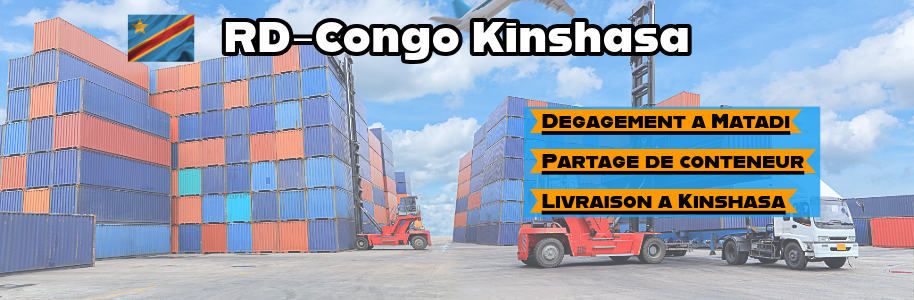
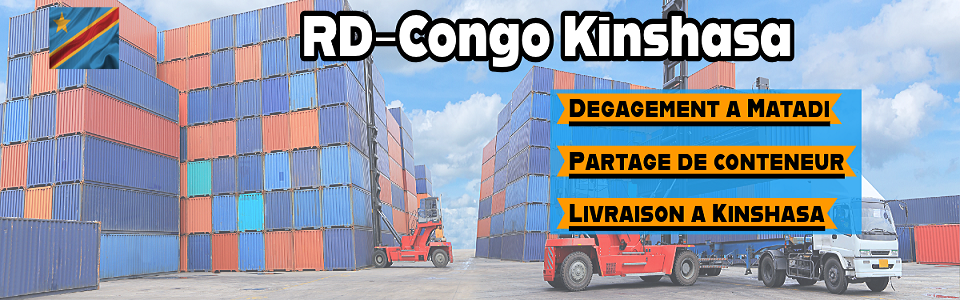
Updated various CSS and JavaScript files with minor changes and image updates

diff --git a/src/components/tanzaniaAgent.js b/src/components/tanzaniaAgent.js
@@ -43,10 +43,12 @@ const TanzainaAgent = () => {
           <img className="nav-icon" src={`${process.env.PUBLIC_URL}/images/localServices/auctionicon.png`} alt='services icon'/>
 
         </a>
-        <a onClick={() => scrollToSection('faq')}>
+
+        <a href='#/help?topic=F%26Q'>
           <img className="nav-icon" src={`${process.env.PUBLIC_URL}/images/localServices/faqicon.png`} alt='services icon'/>
 
         </a>
+     
       
       </div>
 
@@ -116,7 +118,7 @@ const TanzainaAgent = () => {
             <span className="chevrons">
               <img 
                 alt="Decorative chevrons" 
-                src={`${process.env.PUBLIC_URL}/images/localServices/arrows.png`} 
+                src={`${process.env.PUBLIC_URL}/images/localServices/arrowscopy.png`} 
               />
             </span>
           </div>
@@ -210,10 +212,7 @@ const TanzainaAgent = () => {
         </div>
       </div>
 
-      <div id="faq" className="faq">
-        <h1 className="faq-title">Frequently Asked Questions</h1>
-        <FAQComponent />
-      </div>
+    
     </div>
   );
 };

diff --git a/src/components/namibiaAgent.js b/src/components/namibiaAgent.js
@@ -43,7 +43,7 @@ const NamibiaAgent = () => {
           <img className="nav-icon" src={`${process.env.PUBLIC_URL}/images/localServices/auctionicon.png`} alt='services icon'/>
 
         </a>
-        <a onClick={() => scrollToSection('faq')}>
+        <a href='#/help?topic=F%26Q'>
           <img className="nav-icon" src={`${process.env.PUBLIC_URL}/images/localServices/faqicon.png`} alt='services icon'/>
 
         </a>
@@ -117,7 +117,7 @@ const NamibiaAgent = () => {
     
               <img 
                 alt="Decorative chevrons" 
-                src={`${process.env.PUBLIC_URL}/images/localServices/arrows.png`} 
+                src={`${process.env.PUBLIC_URL}/images/localServices/arrowscopy.png`} 
               />
        
           </div>
@@ -181,10 +181,6 @@ const NamibiaAgent = () => {
             </div>
         </div>
 
-      <div id="faq" class="faq">
-        <h1 className="faq-title">Frequently Asked Questions</h1>
-        <FAQComponent />
-      </div>
     </div>
   );
 };

diff --git a/src/components/invoiceForm.js b/src/components/invoiceForm.js
@@ -354,7 +354,7 @@ const ProformaInvoiceForm = () => {
               className="logo-form" 
             />
       
-            <h1>Proforma Invoice Generation</h1>
+            <h2>Proforma Invoice Generation</h2>
 
                {/* Compatibility Message  */}
             <p className="compatibility-message">
@@ -377,7 +377,7 @@ const ProformaInvoiceForm = () => {
             </p>
       
             <div className="form-section">
-              <h2>Your Information</h2>
+              <h3>Your Information</h3>
               <div className="form-group">
                 <div className="half-width">
                   <label htmlFor="fullName">
@@ -480,7 +480,7 @@ const ProformaInvoiceForm = () => {
             </div>
       
             <div className="form-section">
-              <h2>Deposit Details</h2>
+              <h3>Deposit Details</h3>
               <div className="form-group">
                 <div className="half-width">
                   <label htmlFor="depositCurrency">

diff --git a/src/css/namibiaAgent.css b/src/css/namibiaAgent.css
@@ -249,7 +249,6 @@
   background-image: url('../../public/images/localServices/namibiaph4.png'); /* Replace with your image path */
   margin: 40px 0;
   background-position: top center;
-  padding: 40px;
   height: auto;
 }
 
@@ -282,13 +281,15 @@
   border-radius: 10px;
   max-width: 600px; /* Limit the width of the text container */
   text-align: left;
-  font-weight: bold;
 }
 
 .logistics-agent-info a {
   color: inherit;
 }
 
+.logistics-banner {
+  box-shadow: 0 4px 12px rgba(0, 0, 0, 0.1);
+}
 /* Media query for screens wider than 1260px */
 @media (min-width: 1400px) {
   .background {
@@ -297,20 +298,23 @@
   }
 
   .services-text , .logistics-agent-info {
-        max-width: 640px;
+        max-width: 590px;
   }
 
   .logistics-agent-info {
     max-width: 700px;
   }
 
- 
- 
+ .title h2 {
+  font-size: clamp(1.75rem, 3.5vw, 2.95rem);
+ }
 
-  
-  
+ .title img {
+  width: 85%;
+ }
 
-  .nav-icon {
+
+ .nav-icon {
     max-width: 250px;
   }
 }

diff --git a/src/css/slider.css b/src/css/slider.css
@@ -39,20 +39,23 @@ html, body {
 }
 
 
-/* Slick slider image styles */
-.slick-slide img {
-    width: -webkit-fill-available; /* Ensure the image fills the slider container */
-    height: 300px; /* Maintain the aspect ratio */
-}
+.slick-list img {
+    width: 100%;        /* Ensure the image fills the container width */
+    height: 300px;       /* Maintain aspect ratio */
+    object-fit: cover;  /* Ensure the image covers the container without distortion */
+    display: block;     /* Prevent any inline spacing below the image */
+  }
+  
 
 /* Optional: Adjust position of slider dots */
 .slick-dots {
     bottom: -30px; /* Adjust the position of the dots */
 }
 
-@media screen and (min-width:1800px) {
+@media screen and (min-width:1300px) {
     /* On large screens, ensure images scale well */
     .slick-slide img {
         height: auto; /* Ensure images don't stretch vertically */
+        object-fit: fill;
     }
 }

diff --git a/src/components/slider.js b/src/components/slider.js
@@ -27,9 +27,9 @@ const MediaSlider = () => {
   };
 
   const mediaItems = [
-    { type: 'image', src: `${process.env.PUBLIC_URL}/images/slider/namibiaSlider4.png`, link: '/local-services/namibia' },
-    { type: 'image', src: `${process.env.PUBLIC_URL}/images/slider/congoSlider4.png`, link: '#' },
-    { type: 'image', src: `${process.env.PUBLIC_URL}/images/slider/tanzaniaSlider4.png`, link: '/local-services/tanzania' }
+    { type: 'image', src: `${process.env.PUBLIC_URL}/images/slider/namibiaSlider5.png`, link: '/local-services/namibia' },
+    { type: 'image', src: `${process.env.PUBLIC_URL}/images/slider/congoSlider5.png`, link: '#' },
+    { type: 'image', src: `${process.env.PUBLIC_URL}/images/slider/tanzaniaSlider5.png`, link: '/local-services/tanzania' }
   ];
 
   return (

diff --git a/src/css/invoice.css b/src/css/invoice.css
@@ -87,9 +87,7 @@
     text-align:center;
 }
 
-.invoice-wrapper h2 {
-    text-align: left;
-}
+
 
 .invoice-info {
     margin-bottom: 20px;
@@ -112,6 +110,14 @@
 .invoice-bank-info p {
     margin: 0;
     font-size: 14px;
+}
+
+.note p {
+    font-size: clamp(0.875rem, 1.3vw, 1.25rem);
+}
+
+.amount-table th , .amount-table td , .items th , .items td {
+    font-size: clamp(0.875rem, 1.3vw, 1.125rem);
 }
 
 .important {

diff --git a/src/components/invoice2.js b/src/components/invoice2.js
@@ -363,7 +363,7 @@ const handleSendEmail = async () => {
           <div className="note-amount-container">
             <div className="note">
               <p>
-                <strong>Note for bank:</strong>
+                <strong>Note for bank (By the Remitter):</strong>
               </p>
               <p>
                {invoiceData.bankNote}

diff --git a/src/css/App.css b/src/css/App.css
@@ -4,7 +4,7 @@ p, ul li, ol li, .list-item, .services-text, .logistics-agent-info {
 }
 
 .logistics-agent-info , .services-text , .logistics-agent-info a {
-  font-size:clamp(0.875rem, 2vw, 2.25rem) !important ;
+  font-size:clamp(0.875rem, 2vw, 2rem) !important ;
 }
 
 h1 {

diff --git a/src/css/vehiculeEquiry.css b/src/css/vehiculeEquiry.css
@@ -6,8 +6,8 @@
     max-width: 100%;
     box-shadow: 0 4px 12px rgba(0, 0, 0, 0.1);
   }
-  .enquiryContainer h2 {
-
+  .enquiryContainer h3 {
+    text-align: left;
     color: #000;
     border-bottom: 2px solid #f1892b;
     padding-bottom: 5px;

diff --git a/src/css/tanzaniaAgent.css b/src/css/tanzaniaAgent.css
@@ -30,5 +30,5 @@
 
 
 .tanzania-agent .services-text {
-    left: 0;
+    left: 20px;
 }
